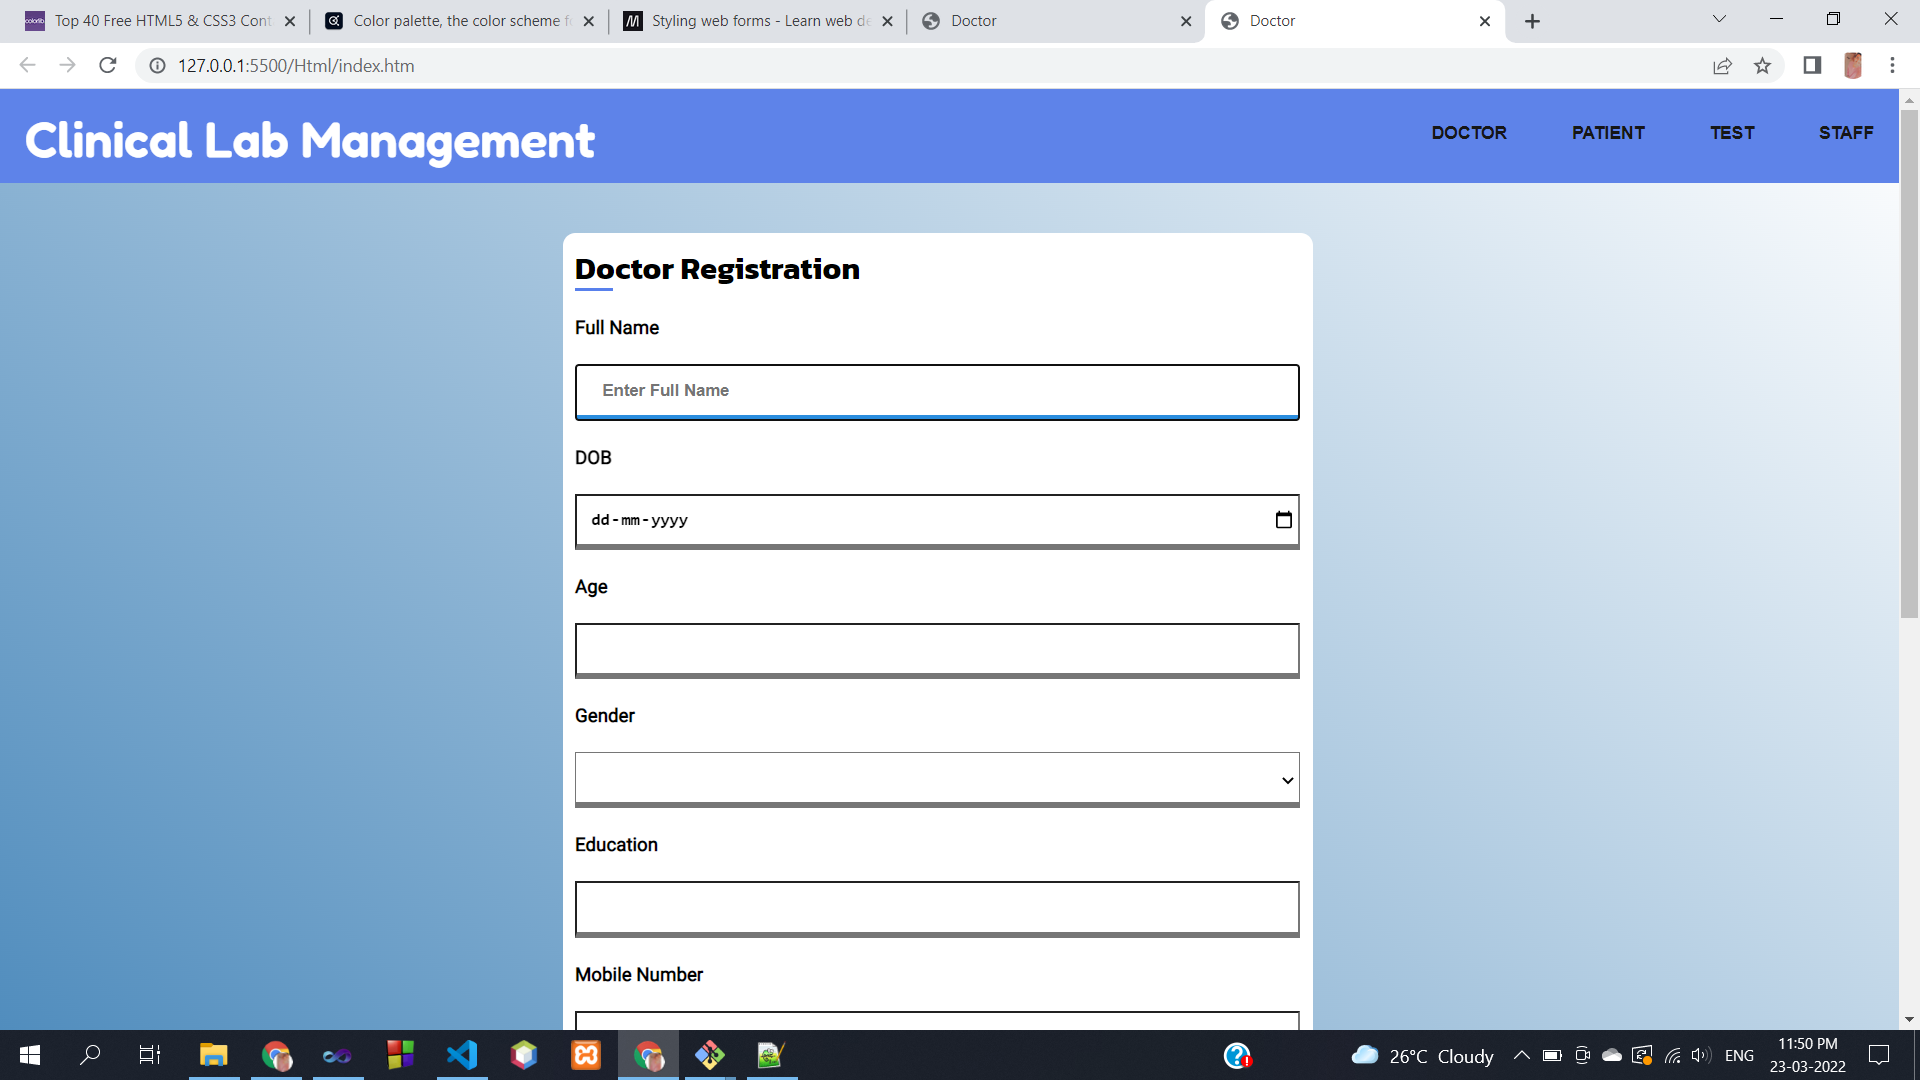
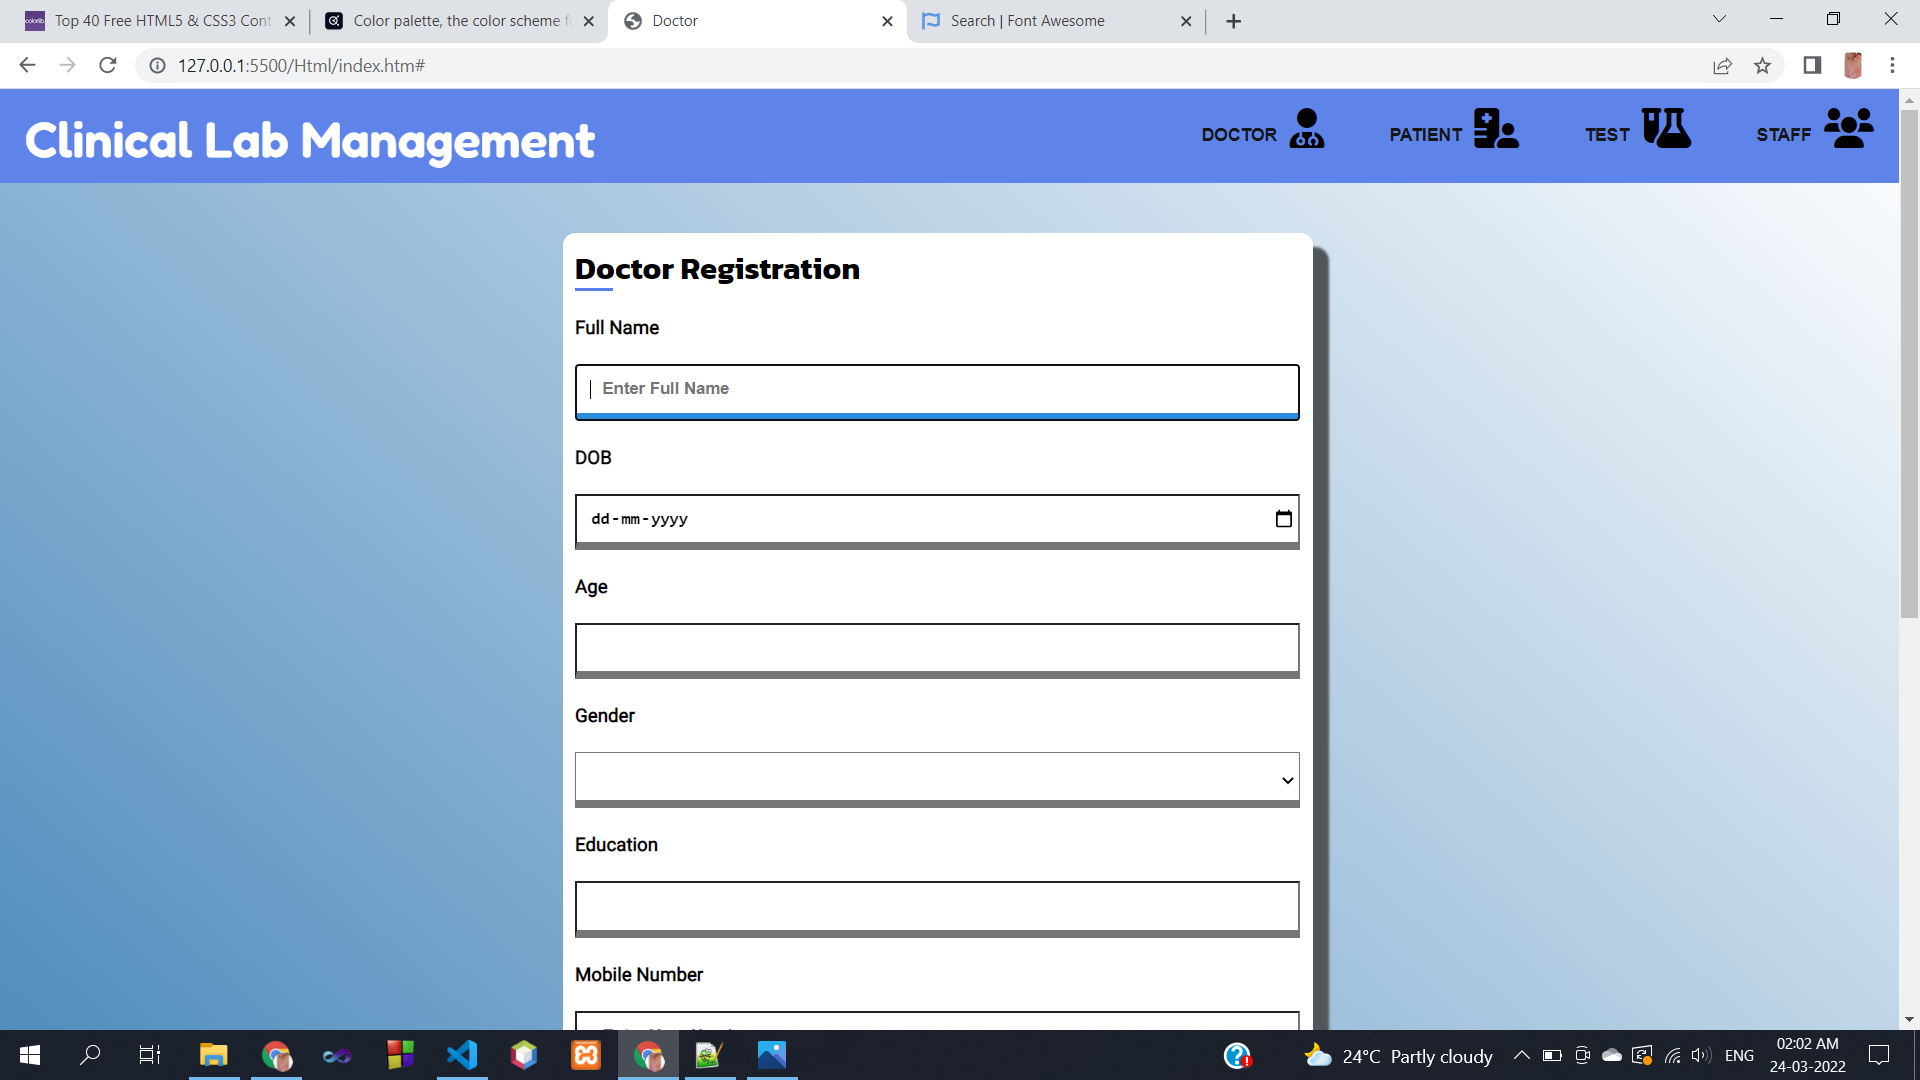
Doctor-Module

diff --git a/Project/02_Doctor/Css/style.css b/Project/02_Doctor/Css/style.css
@@ -19,6 +19,7 @@ body{
     height: 75px;
     margin: auto;
     background-color: #5e83e9;
+    /* position: fixed; */
 }
 
 .main-heading{
@@ -71,7 +72,18 @@ ul li a:hover{
     display: flex;
 }
 
-.personal-info{
+i{
+    padding-top: 15px;
+    padding-left: 10px;
+    cursor: pointer;
+}
+
+i:hover{
+    color: #fff;
+}
+
+
+.doctor-info{
     width: 600px;
     height: 1100px;
     background-color: white;
@@ -79,9 +91,11 @@ ul li a:hover{
     margin-top: 40px;
     margin-left: 450px;  
     padding: 10px;
+    border: none;
+    box-shadow: 12px 12px 2px 1px #51565a;
 }
 
-.personal-info .head{
+.doctor-info .head{
     font-size: 25px;
     font-weight: 500;
     font-family: 'Kanit', sans-serif;
@@ -89,7 +103,7 @@ ul li a:hover{
     margin-bottom: 20px;
 }
 
-.personal-info .head::before{
+.doctor-info .head::before{
     content: '';
     position: absolute;
     left: 0;
@@ -106,7 +120,7 @@ input,select,textarea{
     margin: 20px 0 12px 0;
     font-weight: bold;
     margin-bottom: 20px;
-    border-bottom-width: 5px;
+    border-bottom-width: 7px;
 }
 
 textarea{
@@ -134,14 +148,15 @@ input:focus,.input:valid,select:focus{
     margin: 20px;
 }
 
-.btn-register button , .btn-refresh button,.btn-update button,.Doctor button{
+.btn-register button , .btn-refresh button,.btn-update button{
     width: 200px;
     height: 40px;
     margin: 20px;
     border-radius: 50px;
-    font-weight: bolder;
+    font-weight: bold;
     font-size: 20px;
-    background-color: #86A1EB;
+    font-family: 'Poppins', sans-serif;
+    background-color: #3464e9;
     color: #fafcff;
     cursor: pointer;
     border-style: none;

diff --git a/Project/02_Doctor/Html/index.htm b/Project/02_Doctor/Html/index.htm
@@ -5,6 +5,7 @@
     <meta http-equiv="X-UA-Compatible" content="IE=edge">
     <meta name="viewport" content="width=device-width, initial-scale=1.0">
     <link rel="stylesheet" href="../Css/style.css">
+    <script src="https://kit.fontawesome.com/70a5890f20.js" crossorigin="anonymous"></script>
     <title>Doctor</title>
 </head>
 <body onload="clrData()">
@@ -16,20 +17,20 @@
     <div class="menu">
         <ul>
             <li><a href="#">Doctor</a></li>
+            <i class="fa-solid fa-user-doctor fa-2x"></i>
             <li><a href="#">Patient</a></li>
+            <i class="fa-solid fa-hospital-user fa-2x"></i>
             <li><a href="#">Test</a></li>
+            <i class="fa-solid fa-flask-vial fa-2x"></i>
             <li><a href="#">Staff</a></li>
+            <i class="fa-solid fa-users fa-2x"></i>
         </ul>
     </div>
   </div>
 
     <div class="main-container">
-      <div class="head">
-         
-      </div>
-
        <div class="container">
-        <div class="personal-info">
+        <div class="doctor-info">
           <h1 class="head">Doctor Registration</h1>
 
           <div class="Doctor">
